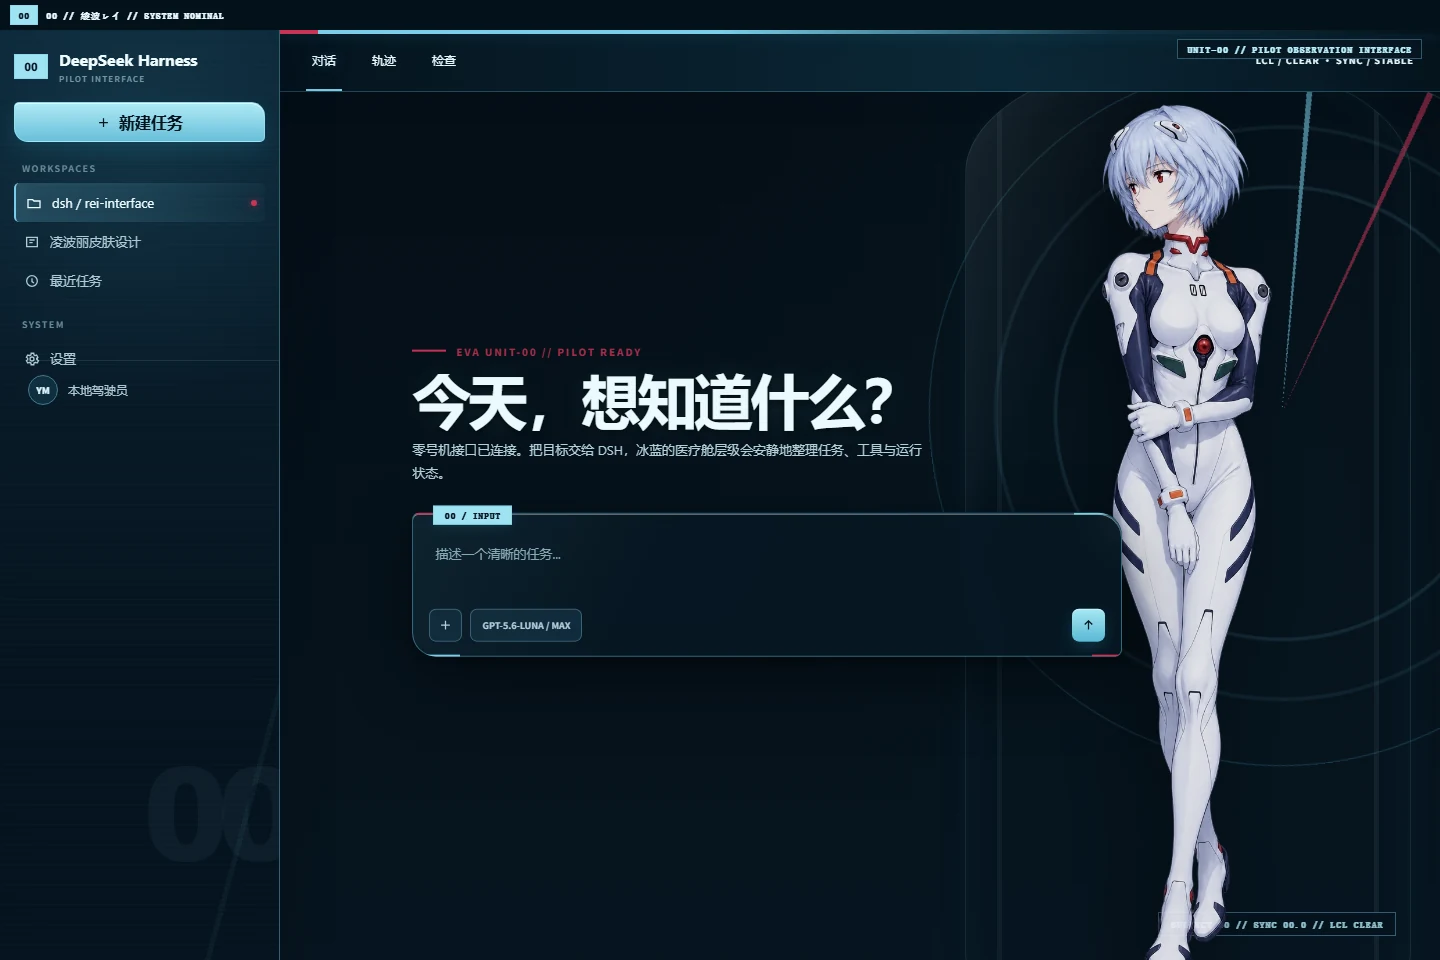
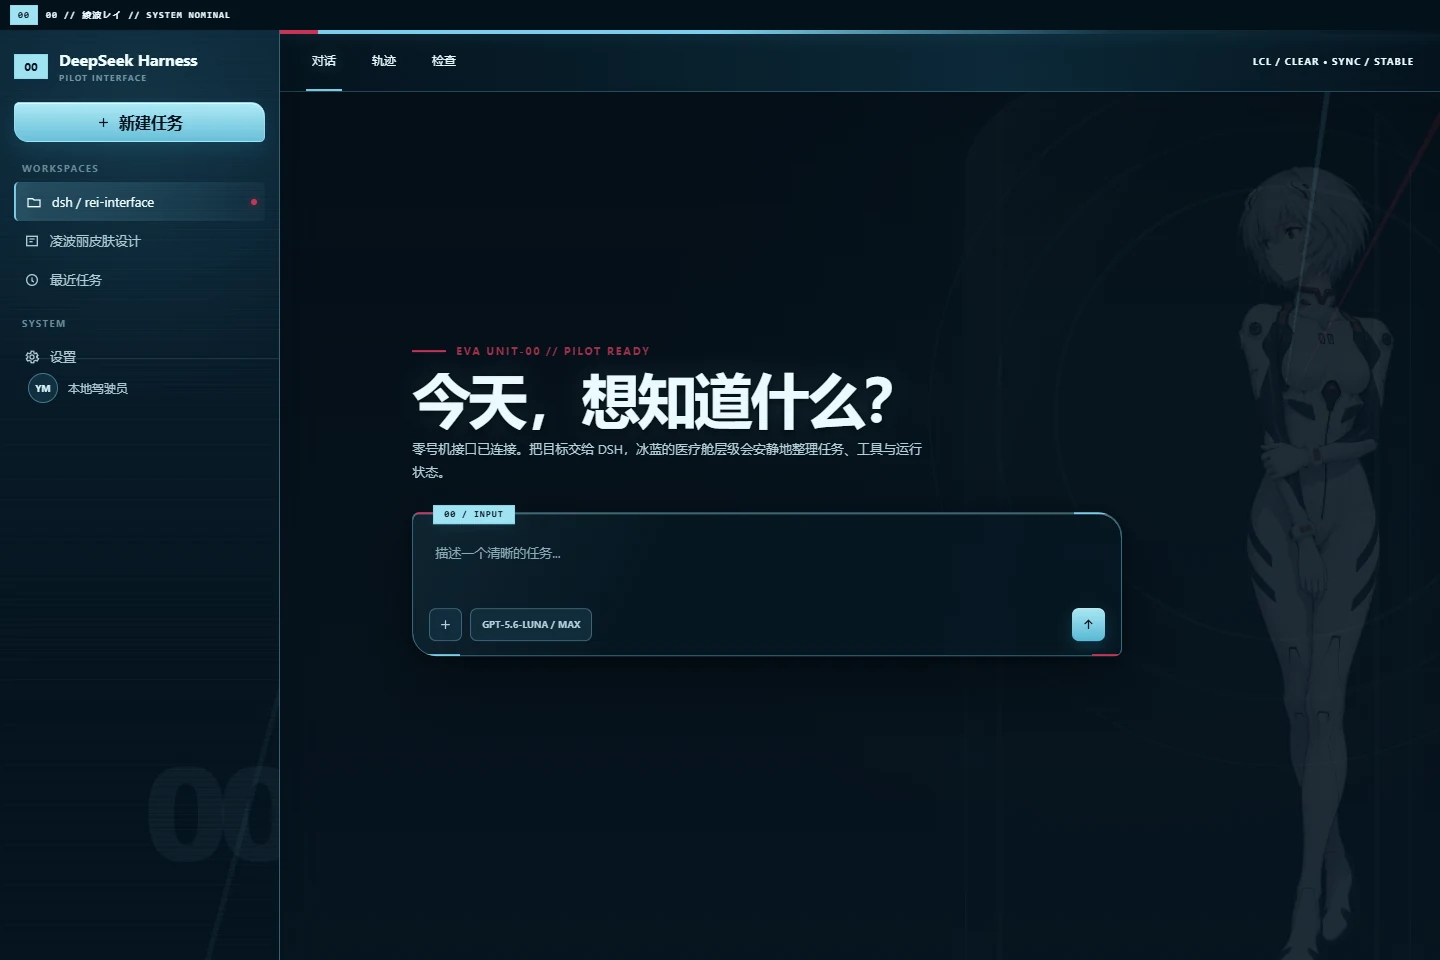
Remove decorative telemetry labels

diff --git a/lib/client.js b/lib/client.js
@@ -176,24 +176,6 @@ body[data-dsh-rei-interface] [data-rei-capsule] {
   box-shadow: inset 0 0 50px rgba(105, 204, 232, 0.08), 0 0 42px rgba(77, 172, 200, 0.07);
 }
 
-body[data-dsh-rei-interface] [data-rei-telemetry] {
-  position: absolute;
-  right: clamp(14px, 3vw, 54px);
-  bottom: 24px;
-  padding: 7px 12px 6px;
-  border: 1px solid rgba(121, 206, 233, 0.4);
-  color: rgba(45, 113, 135, 0.78);
-  background: rgba(235, 248, 251, 0.64);
-  font: 700 9px/1 ui-monospace, SFMono-Regular, Menlo, monospace;
-  letter-spacing: 0.14em;
-  backdrop-filter: blur(8px);
-}
-
-body[data-dsh-rei-interface][data-ds-dark-theme] [data-rei-telemetry] {
-  color: rgba(185, 239, 251, 0.78);
-  background: rgba(4, 19, 30, 0.68);
-}
-
 body[data-dsh-rei-interface]:has(:is([data-phase='active'][data-chat-flow], [data-phase='active'] [data-chat-flow])) [data-skin-artwork] {
   opacity: 0.11;
   filter: saturate(0.46) drop-shadow(-10px 12px 22px rgba(7, 25, 37, 0.22));
@@ -202,10 +184,6 @@ body[data-dsh-rei-interface]:has(:is([data-phase='active'][data-chat-flow], [dat
 
 body[data-dsh-rei-interface]:has(:is([data-phase='active'][data-chat-flow], [data-phase='active'] [data-chat-flow])) :is([data-skin-orbit], [data-rei-capsule]) {
   opacity: 0.14;
-}
-
-body[data-dsh-rei-interface]:has(:is([data-phase='active'][data-chat-flow], [data-phase='active'] [data-chat-flow])) [data-rei-telemetry] {
-  opacity: 0;
 }
 
 body[data-dsh-rei-interface] [data-skin-chrome='rei-accent-rail'] {
@@ -219,20 +197,6 @@ body[data-dsh-rei-interface] [data-skin-chrome='rei-accent-rail'] {
   background: linear-gradient(90deg, var(--rei-eye) 0 38px, var(--rei-ice) 38px 38%, rgba(121, 206, 233, 0.08) 72%, transparent);
   box-shadow: 0 2px 14px rgba(55, 166, 199, 0.24);
   transition: left 180ms ease;
-}
-
-body[data-dsh-rei-interface] [data-skin-chrome='rei-accent-rail']::after {
-  content: 'UNIT-00 // PILOT OBSERVATION INTERFACE';
-  position: absolute;
-  top: 9px;
-  right: 18px;
-  padding: 5px 9px 4px;
-  border: 1px solid rgba(121, 206, 233, 0.36);
-  color: #b9effb;
-  background: rgba(5, 20, 31, 0.72);
-  font: 700 9px/1 ui-monospace, SFMono-Regular, Menlo, monospace;
-  letter-spacing: 0.14em;
-  backdrop-filter: blur(10px);
 }
 
 body[data-dsh-rei-interface] [data-skin-chrome='rei-titlebar-brand'] {
@@ -603,11 +567,6 @@ body[data-dsh-rei-interface] ::-webkit-scrollbar-thumb {
     opacity: 0.1;
   }
 
-  body[data-dsh-rei-interface] [data-rei-telemetry],
-  body[data-dsh-rei-interface] [data-skin-chrome='rei-accent-rail']::after {
-    display: none;
-  }
-
   body[data-dsh-rei-interface] [data-phase='hero'] {
     --dsh-chat-content-width: min(90vw, 680px);
   }
@@ -666,17 +625,14 @@ function createArtworkStage() {
   const stage = createOwned('div', 'rei-artwork-stage')
   const orbit = document.createElement('span')
   const capsule = document.createElement('span')
-  const telemetry = document.createElement('span')
   const artwork = document.createElement('img')
   stage.setAttribute('aria-hidden', 'true')
   orbit.dataset.skinOrbit = ''
   capsule.dataset.reiCapsule = ''
-  telemetry.dataset.reiTelemetry = ''
-  telemetry.textContent = 'SUBJECT 00 // SYNC 00.0 // LCL CLEAR'
   artwork.dataset.skinArtwork = ''
   artwork.alt = ''
   artwork.src = SKIN_ART
-  stage.append(orbit, capsule, telemetry, artwork)
+  stage.append(orbit, capsule, artwork)
   return stage
 }
 

diff --git a/shared/theme-css.js b/shared/theme-css.js
@@ -157,24 +157,6 @@ body[data-dsh-rei-interface] [data-rei-capsule] {
   box-shadow: inset 0 0 50px rgba(105, 204, 232, 0.08), 0 0 42px rgba(77, 172, 200, 0.07);
 }
 
-body[data-dsh-rei-interface] [data-rei-telemetry] {
-  position: absolute;
-  right: clamp(14px, 3vw, 54px);
-  bottom: 24px;
-  padding: 7px 12px 6px;
-  border: 1px solid rgba(121, 206, 233, 0.4);
-  color: rgba(45, 113, 135, 0.78);
-  background: rgba(235, 248, 251, 0.64);
-  font: 700 9px/1 ui-monospace, SFMono-Regular, Menlo, monospace;
-  letter-spacing: 0.14em;
-  backdrop-filter: blur(8px);
-}
-
-body[data-dsh-rei-interface][data-ds-dark-theme] [data-rei-telemetry] {
-  color: rgba(185, 239, 251, 0.78);
-  background: rgba(4, 19, 30, 0.68);
-}
-
 body[data-dsh-rei-interface]:has(:is([data-phase='active'][data-chat-flow], [data-phase='active'] [data-chat-flow])) [data-skin-artwork] {
   opacity: 0.11;
   filter: saturate(0.46) drop-shadow(-10px 12px 22px rgba(7, 25, 37, 0.22));
@@ -183,10 +165,6 @@ body[data-dsh-rei-interface]:has(:is([data-phase='active'][data-chat-flow], [dat
 
 body[data-dsh-rei-interface]:has(:is([data-phase='active'][data-chat-flow], [data-phase='active'] [data-chat-flow])) :is([data-skin-orbit], [data-rei-capsule]) {
   opacity: 0.14;
-}
-
-body[data-dsh-rei-interface]:has(:is([data-phase='active'][data-chat-flow], [data-phase='active'] [data-chat-flow])) [data-rei-telemetry] {
-  opacity: 0;
 }
 
 body[data-dsh-rei-interface] [data-skin-chrome='rei-accent-rail'] {
@@ -200,20 +178,6 @@ body[data-dsh-rei-interface] [data-skin-chrome='rei-accent-rail'] {
   background: linear-gradient(90deg, var(--rei-eye) 0 38px, var(--rei-ice) 38px 38%, rgba(121, 206, 233, 0.08) 72%, transparent);
   box-shadow: 0 2px 14px rgba(55, 166, 199, 0.24);
   transition: left 180ms ease;
-}
-
-body[data-dsh-rei-interface] [data-skin-chrome='rei-accent-rail']::after {
-  content: 'UNIT-00 // PILOT OBSERVATION INTERFACE';
-  position: absolute;
-  top: 9px;
-  right: 18px;
-  padding: 5px 9px 4px;
-  border: 1px solid rgba(121, 206, 233, 0.36);
-  color: #b9effb;
-  background: rgba(5, 20, 31, 0.72);
-  font: 700 9px/1 ui-monospace, SFMono-Regular, Menlo, monospace;
-  letter-spacing: 0.14em;
-  backdrop-filter: blur(10px);
 }
 
 body[data-dsh-rei-interface] [data-skin-chrome='rei-titlebar-brand'] {
@@ -582,11 +546,6 @@ body[data-dsh-rei-interface] ::-webkit-scrollbar-thumb {
 
   body[data-dsh-rei-interface] :is([data-skin-orbit], [data-rei-capsule]) {
     opacity: 0.1;
-  }
-
-  body[data-dsh-rei-interface] [data-rei-telemetry],
-  body[data-dsh-rei-interface] [data-skin-chrome='rei-accent-rail']::after {
-    display: none;
   }
 
   body[data-dsh-rei-interface] [data-phase='hero'] {

diff --git a/shared/runtime.js b/shared/runtime.js
@@ -23,17 +23,14 @@ function createArtworkStage() {
   const stage = createOwned('div', 'rei-artwork-stage')
   const orbit = document.createElement('span')
   const capsule = document.createElement('span')
-  const telemetry = document.createElement('span')
   const artwork = document.createElement('img')
   stage.setAttribute('aria-hidden', 'true')
   orbit.dataset.skinOrbit = ''
   capsule.dataset.reiCapsule = ''
-  telemetry.dataset.reiTelemetry = ''
-  telemetry.textContent = 'SUBJECT 00 // SYNC 00.0 // LCL CLEAR'
   artwork.dataset.skinArtwork = ''
   artwork.alt = ''
   artwork.src = SKIN_ART
-  stage.append(orbit, capsule, telemetry, artwork)
+  stage.append(orbit, capsule, artwork)
   return stage
 }
 

diff --git a/tests/apply.spec.ts b/tests/apply.spec.ts
@@ -55,7 +55,7 @@ describe('Rei Ayanami Interface interface skin', () => {
     expect(document.body.hasAttribute('data-dsh-rei-interface')).toBe(true)
     expect(document.querySelector('[data-skin-artwork]')).not.toBeNull()
     expect(document.querySelector('[data-rei-capsule]')).not.toBeNull()
-    expect(document.querySelector('[data-rei-telemetry]')?.textContent).toContain('SUBJECT 00')
+    expect(document.querySelector('[data-rei-telemetry]')).toBeNull()
     expect(document.querySelector("[data-skin-chrome='rei-accent-rail']")).not.toBeNull()
     expect(document.head.querySelector("[data-skin-chrome='rei-styles']")).not.toBeNull()
 

diff --git a/README.en.md b/README.en.md
@@ -6,7 +6,7 @@ An unofficial Rei Ayanami / EVA Unit-00 interface skin for the DSH Web UI, built
 
 ## Highlights
 
-- Full-height Rei artwork, Unit-00 synchronization rings, and capsule telemetry on the welcome screen.
+- Full-height Rei artwork, Unit-00 synchronization rings, and capsule-glass styling on the welcome screen.
 - Artwork automatically fades, desaturates, and shifts aside during active conversations.
 - Deliberate light and dark treatments for settings, menus, terminal surfaces, messages, and disabled states.
 - Responsive and reduced-motion behavior.

diff --git a/README.md b/README.md
@@ -8,7 +8,7 @@
 
 ## 特性
 
-- 欢迎页显示完整凌波丽立绘、UNIT-00 同步环和医疗舱遥测信息。
+- 欢迎页显示完整凌波丽立绘、UNIT-00 同步环和医疗舱玻璃效果。
 - 进入对话后立绘自动退到右侧并降低透明度与饱和度，避免影响阅读。
 - 独立设计亮色、暗色、设置弹窗、菜单、终端、消息和禁用状态。
 - 适配宽屏、窄屏和系统“减少动态效果”设置。
